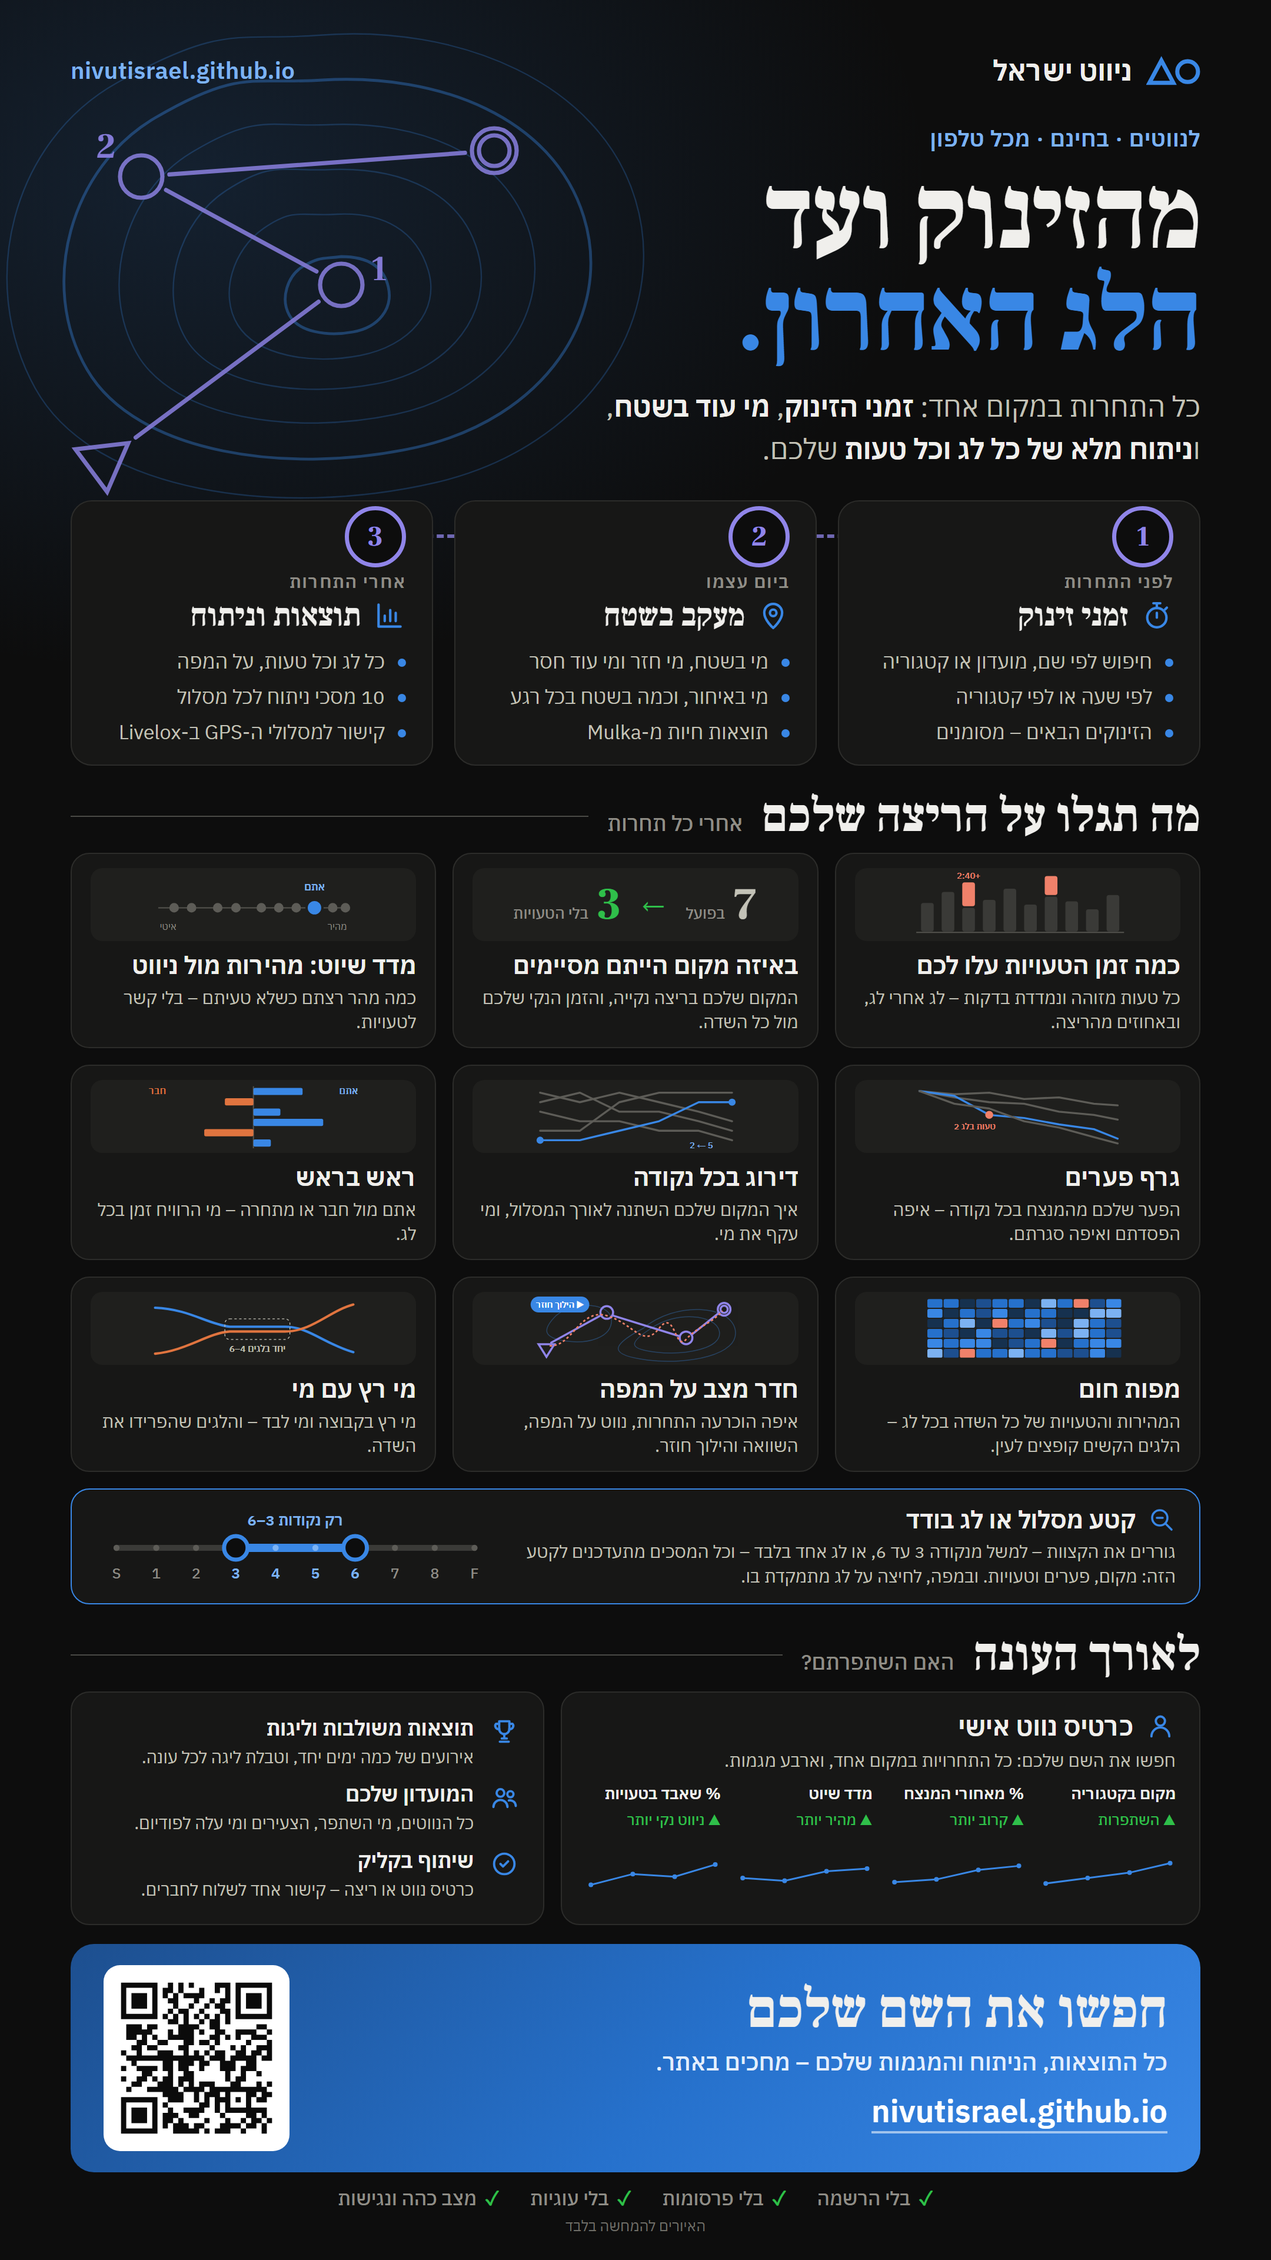
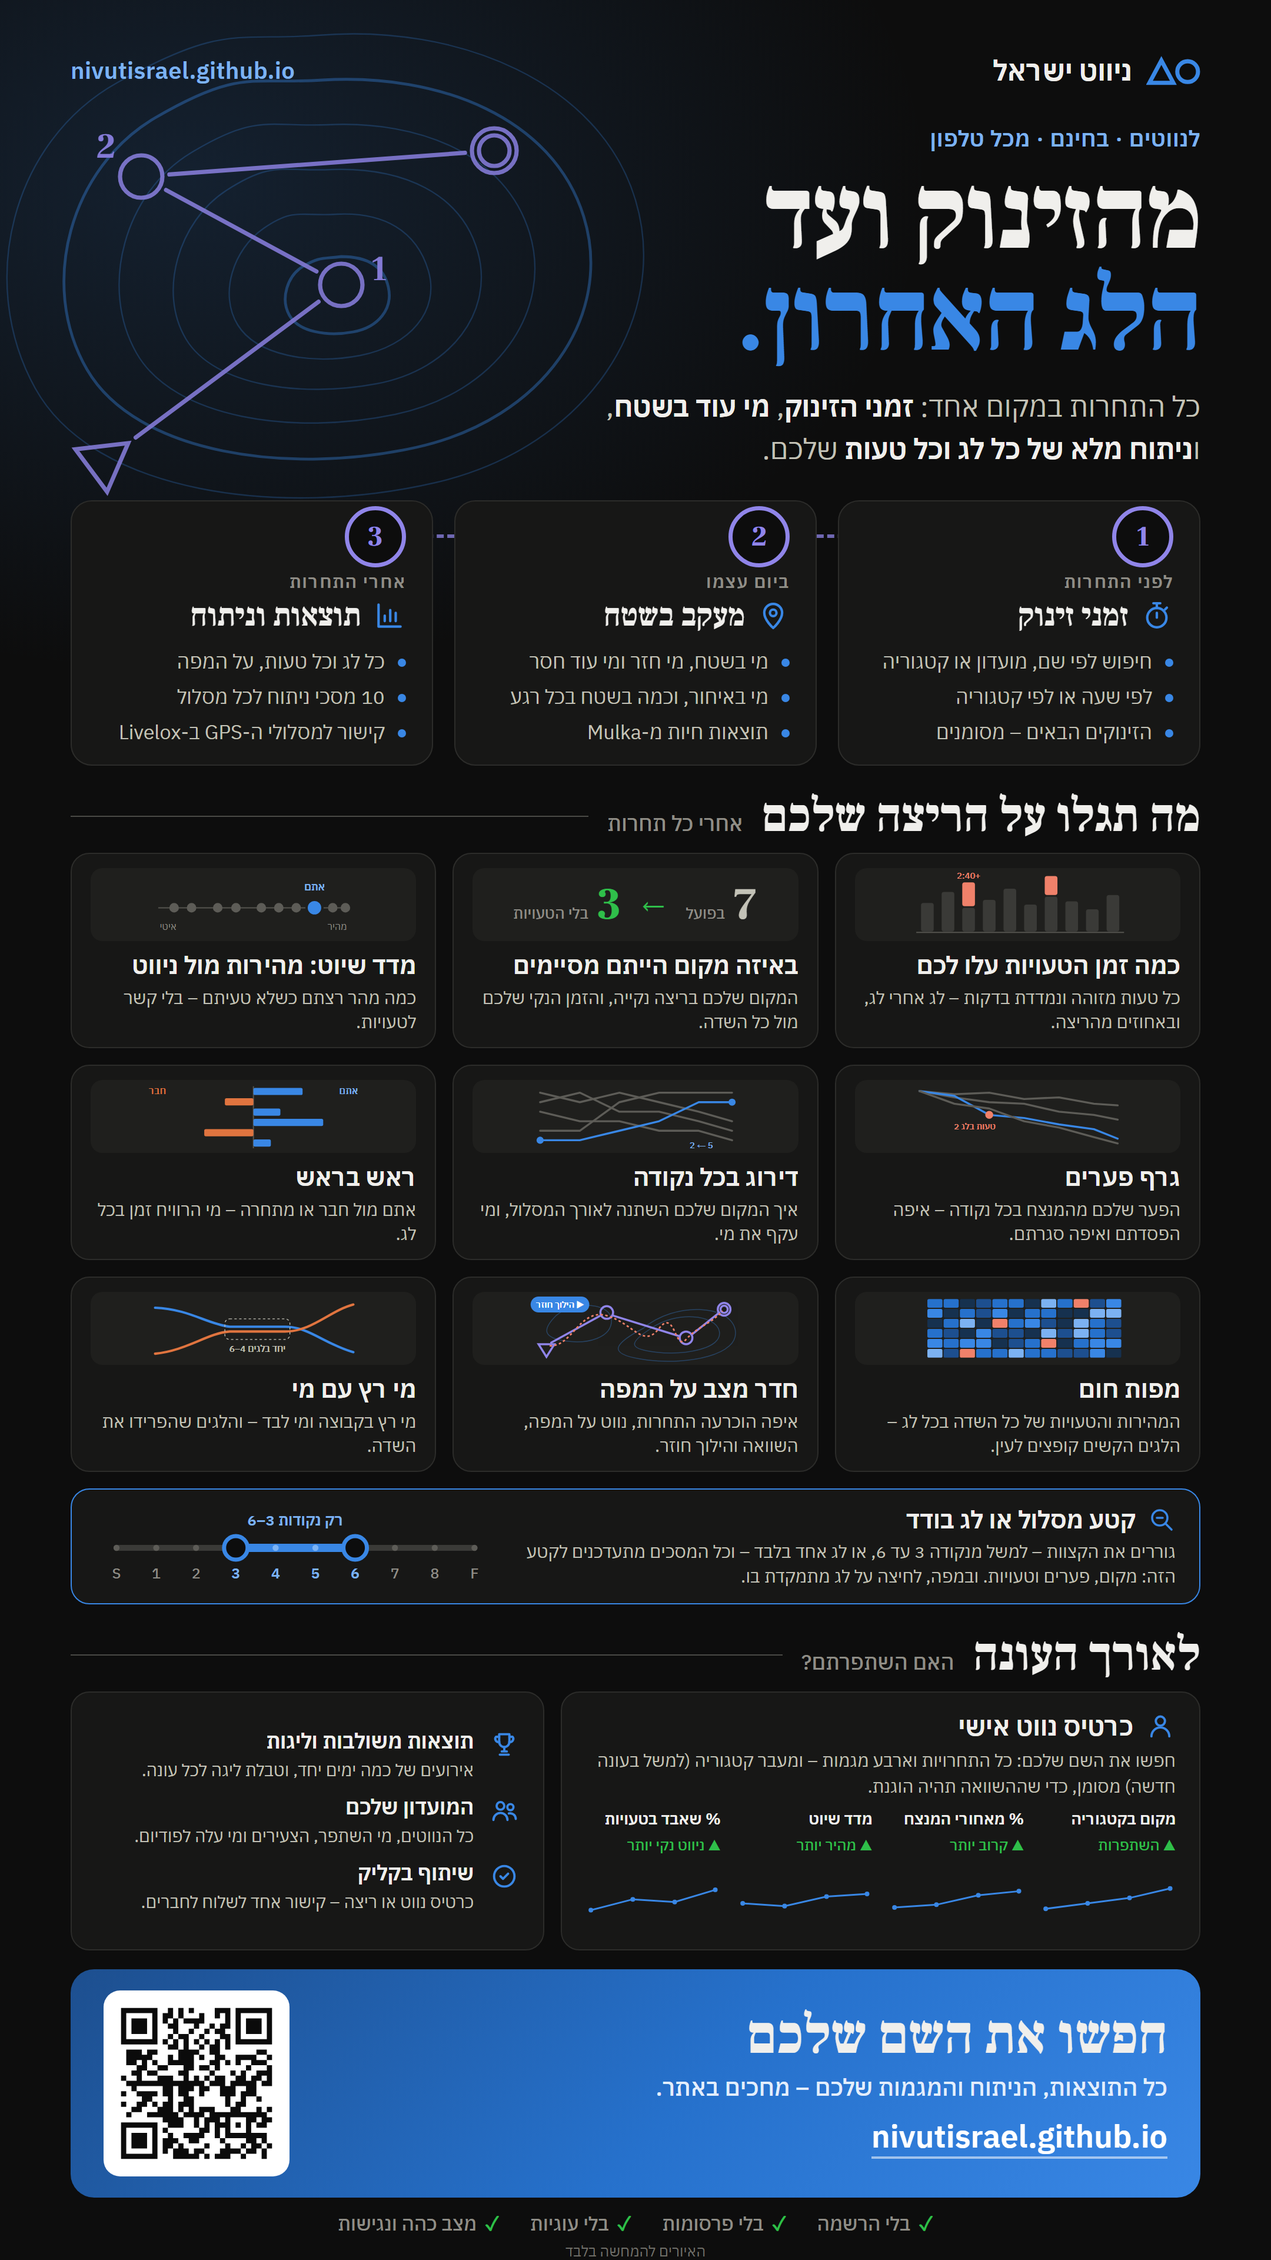
Update reports

Changed region(s): [[0.062, 0.75, 0.9616, 1.0]]

diff --git a/index.html b/index.html
@@ -2,7 +2,7 @@
 <html lang="he" dir="rtl">
 <head>
 <meta charset="utf-8">
-<meta http-equiv="Content-Security-Policy" content="default-src 'none'; script-src 'sha256-aKAXZXn8ocqffJBn0s+8Ofb8sEJI4VWMXJA5j4iilwE=' 'unsafe-inline'; style-src 'unsafe-inline'; img-src 'self' data: blob:; font-src 'self'; connect-src 'self'; worker-src 'self'; base-uri 'none'; form-action 'none'; object-src 'none'">
+<meta http-equiv="Content-Security-Policy" content="default-src 'none'; script-src 'sha256-Gk6z9wJMk5DsPJNbkvPI6KK553pazGg5fNxAxypVmYY=' 'unsafe-inline'; style-src 'unsafe-inline'; img-src 'self' data: blob:; font-src 'self'; connect-src 'self'; worker-src 'self'; base-uri 'none'; form-action 'none'; object-src 'none'">
 <meta name="referrer" content="no-referrer">
 <meta name="viewport" content="width=device-width, initial-scale=1, viewport-fit=cover">
 <meta name="theme-color" content="#ffffff" media="(prefers-color-scheme: light)">
@@ -192,7 +192,9 @@ td a:hover { text-decoration: underline; text-underline-offset: 3px; }
 .trend h4 small { font: 500 calc(12.5px * var(--ts, 1)) var(--sans); color: var(--muted); margin-right: 8px; }
 .trend svg { width: 100%; height: 130px; display: block; margin-top: 6px; }
 .trend .ax { fill: var(--ink-2); font: 600 calc(11px * var(--ts, 1)) var(--sans); }
-.verdict { font: 600 calc(13px * var(--ts, 1)) var(--sans); margin-top: 4px; }
+.verdict { font: 600 calc(13px * var(--ts, 1)) var(--sans); margin-top: 4px; } .verdict.flat { color: var(--muted); }
+.catnote { margin: 26px 0 0; padding: 10px 14px; border-radius: 10px; font-size: calc(14px * var(--ts, 1)); color: var(--ink-2); background: color-mix(in srgb, var(--accent) 9%, transparent); }
+.newk { color: var(--accent); font-weight: 600; font-size: calc(11.5px * var(--ts, 1)); }
 .up { color: var(--green); } .down { color: var(--accent); }
 
 /* footer: the margin of a map */
@@ -577,24 +579,34 @@ function search() {
   if (hits.length === 1 && pick !== hits[0].id) show(hits[0].id);
 }
 // a season line: up = better (where a low value is good the axis is flipped)
-function spark(vals, color, fmt, better, labels = []) {
+// cats: each point's category. A place or a gap to the winner in another category is not the same measure: the line
+// between two categories is dashed, and better or not is judged only since the latest change (from its second competition)
+function spark(vals, color, fmt, better, labels = [], cats = []) {
   const pts = vals.map((v, i) => [i, v]).filter(p => p[1] != null);
   if (pts.length < 2) return `<p class="hint">צריך לפחות 2 תחרויות כדי לראות מגמה</p>`;
   const W = 300, H = 132, m = 20, lo = Math.min(...pts.map(p => p[1])), hi = Math.max(...pts.map(p => p[1])), span = (hi - lo) || 1;
   const X = i => m + i / Math.max(1, vals.length - 1) * (W - 2 * m), f = v => (v - lo) / span * (H - 2 * m),
         Y = better === "low" ? v => m + f(v) : v => H - m - f(v);
-  const d = pts.map((p, k) => (k ? "L" : "M") + X(p[0]).toFixed(1) + "," + Y(p[1]).toFixed(1)).join("");
-  const first = pts[0][1], lastV = pts[pts.length - 1][1], good = better === "low" ? lastV < first : lastV > first;
+  const xy = p => X(p[0]).toFixed(1) + "," + Y(p[1]).toFixed(1), moved = (a, b) => !sameCat(cats[a[0]], cats[b[0]]);
+  const d = pts.map((p, k) => (k && !moved(pts[k - 1], p) ? "L" : "M") + xy(p)).join("");
+  const dash = pts.slice(1).map((p, k) => moved(pts[k], p) ? `M${xy(pts[k])}L${xy(p)}` : "").join("");
+  let s = pts.length - 1;
+  while (s > 0 && !moved(pts[s - 1], pts[s])) s--;                     // the latest run of one category
+  const last = pts[pts.length - 1], since = pts.slice(s), changed = s > 0;
+  const first = since[0][1], lastV = last[1], good = better === "low" ? lastV < first : lastV > first;
   const dated = [];                  // dates under the points, at least 26 apart; the last one always (it takes its neighbour's place)
   pts.forEach((p, k) => { if (!labels[p[0]]) return; const x = X(p[0]);
     if (dated.length && x - dated[dated.length - 1][1] < 26) { if (k !== pts.length - 1) return; dated.pop(); }
     dated.push([p[0], x]); });
   const DATED = new Set(dated.map(d => d[0]));
   return `<svg viewBox="0 0 ${W} ${H}" style="direction:ltr"><path d="${d}" fill="none" stroke="${color}" stroke-width="2.5" stroke-linejoin="round" stroke-linecap="round"/>
+    ${dash ? `<path class="moved" d="${dash}" fill="none" stroke="${color}" stroke-width="2" stroke-dasharray="4 4" opacity=".55"/>` : ""}
     ${pts.map(p => `<circle cx="${X(p[0])}" cy="${Y(p[1])}" r="4.5" fill="var(--paper)" stroke="${color}" stroke-width="2.5"/><text class="ax" x="${X(p[0])}" y="${Y(p[1]) - 10}" text-anchor="middle">${fmt(p[1])}</text>`
       + (DATED.has(p[0]) ? `<text class="ax dt" x="${X(p[0])}" y="${H - 3}" text-anchor="middle">${esc(labels[p[0]])}</text>` : "")).join("")}</svg>
-    <div class="verdict ${good ? "up" : "down"}">${good ? "▲ השתפר" : "▼ לא השתפר"} מהתחרות הראשונה לאחרונה</div>`;
+    ${changed && since.length < 2 ? `<div class="verdict flat">הקטגוריה השתנתה ל-<bdi>${esc(cats[last[0]])}</bdi> – המגמה בה תתחיל מהתחרות הבאה</div>`
+      : `<div class="verdict ${good ? "up" : "down"}">${good ? "▲ השתפר" : "▼ לא השתפר"} ${changed ? `מאז המעבר ל-<bdi>${esc(cats[last[0]])}</bdi>` : "מהתחרות הראשונה לאחרונה"}</div>`}`;
 }
+const sameCat = (a, b) => String(a ?? "").replace(/\s+/g, "").toUpperCase() === String(b ?? "").replace(/\s+/g, "").toUpperCase();
 let SHARE = [];
 document.addEventListener("click", e => { const b = e.target.closest?.("#me [data-share]"); if (b && SHARE[+b.dataset.share]) shareCard(SHARE[+b.dataset.share]); });
 function show(id) {
@@ -606,6 +618,11 @@ function show(id) {
   const fin = x => num(x.p) != null && num(x.cp) != null, gap = x => fin(x) && num(x.w) ? (x.t - x.w) / x.w * 100 : null;
   const club = [...res].reverse().map(x => x.cl).find(Boolean) || "", done = res.filter(fin);
   const dates = res.map(x => { const m = /^\d{4}-(\d{2})-(\d{2})/.exec(byS[x.s].date || ""); return m ? `${+m[2]}.${+m[1]}` : ""; });   // under the trend points
+  const cats = res.map(x => x.k), before = i => cats.slice(0, i).filter(Boolean).pop();
+  const newCat = i => !!(cats[i] && before(i) && !sameCat(cats[i], before(i)));           // another category than the one before
+  const steps = cats.reduce((a, k) => k && (!a.length || !sameCat(k, a[a.length - 1])) ? a.concat(k) : a, []);   // H14 → H16
+  const catNote = steps.length > 1 ? `<p class="catnote">↻ הקטגוריה השתנתה: <bdi dir="ltr">${steps.map(esc).join(" → ")}</bdi>. מקום ופער מהמנצח נמדדים כל פעם מול הקטגוריה של אותה תחרות,
+    ולכן תחרויות בקטגוריות שונות לא ממש ניתנות להשוואה: בגרפים הקו בין קטגוריות מקווקו, והמגמה נמדדת מאז המעבר.</p>` : "";
   SHARE = res.map(x => { const c = byS[x.s], [name, day] = splitTitle(c.title);
     return { name: r.n, club: x.cl || club, comp: day ? `${name} · ${day}` : name, date: fdate(c.date), cat: x.k, cp: fin(x) ? num(x.cp) : null, f: x.f,
              t: fin(x) ? num(x.t) : null, behind: fin(x) && num(x.w) ? x.t - x.w : null, m: num(x.m), st: x.st }; });
@@ -618,14 +635,14 @@ function show(id) {
       <th data-card="main" data-short="">זמן</th><th data-short="שיוט">מדד שיוט</th><th data-short="אבוד">% אבוד בטעויות</th><th data-tt="no" data-card="full"></th></tr></thead><tbody>
     ${res.map((x, i) => { const c = byS[x.s], h = `#v=runner&c=${encodeURIComponent(x.c)}&r=${encodeURIComponent(x.r)}`;
       const p = num(x.p), cp = num(x.cp), ci = num(x.ci), [name, day] = splitTitle(c.title);
-      return `<tr><td data-v="${esc(c.date)}">${fdate(c.date)}</td><td class="cn">${esc(name)}${day ? ` · ${esc(day)}` : ""}</td><td>${esc(x.c)}</td><td>${esc(x.k)}</td>
+      return `<tr><td data-v="${esc(c.date)}">${fdate(c.date)}</td><td class="cn">${esc(name)}${day ? ` · ${esc(day)}` : ""}</td><td>${esc(x.c)}</td><td>${esc(x.k)}${newCat(i) ? ` <small class="newk">חדשה</small>` : ""}</td>
         <td>${cp ?? "–"}</td><td>${p ?? (x.st === "MP" ? "פסול (MP)" : "לא סיים")}</td><td>${p != null ? ft(num(x.t)) : "–"}</td><td>${ci ?? "–"}</td><td>${pct(x) != null ? pct(x).toFixed(1) + "%" : "–"}</td>
         <td><a href="${c.slug}/${esc(h)}">כרטיס נווט ←</a>${c.map ? ` · <a href="${c.slug}/${esc(h.replace("v=runner", "v=map&mode=runner"))}">על המפה</a>` : ""} · <button type="button" class="share" data-share="${i}">📤 שיתוף</button></td></tr>`; }).join("")}
     </tbody></table></div>
-    <div class="trend"><section><h4>מקום בקטגוריה<small>למעלה = מקום טוב יותר</small></h4>${spark(res.map(x => fin(x) ? num(x.cp) : null), "var(--accent)", v => v, "low", dates)}</section>
-      <section><h4>% מאחורי המנצח<small>למעלה = קרוב יותר למנצח</small></h4>${spark(res.map(gap), "var(--accent)", v => v.toFixed(0) + "%", "low", dates)}</section>
-      <section><h4>מדד שיוט<small>למעלה = מהיר יותר</small></h4>${spark(res.map(x => num(x.p) != null ? num(x.ci) : null), "var(--accent)", v => v, "low", dates)}</section>
-      <section><h4>% מהזמן שאבד בטעויות<small>למעלה = ניווט נקי יותר</small></h4>${spark(res.map(x => num(x.p) != null ? pct(x) : null), "var(--accent)", v => v.toFixed(0) + "%", "low", dates)}</section></div>`;
+    ${catNote}<div class="trend"><section><h4>מקום בקטגוריה<small>למעלה = מקום טוב יותר</small></h4>${spark(res.map(x => fin(x) ? num(x.cp) : null), "var(--accent)", v => v, "low", dates, cats)}</section>
+      <section><h4>% מאחורי המנצח<small>למעלה = קרוב יותר למנצח</small></h4>${spark(res.map(gap), "var(--accent)", v => v.toFixed(0) + "%", "low", dates, cats)}</section>
+      <section><h4>מדד שיוט<small>למעלה = מהיר יותר</small></h4>${spark(res.map(x => num(x.p) != null ? num(x.ci) : null), "var(--accent)", v => v, "low", dates, cats)}</section>
+      <section><h4>% מהזמן שאבד בטעויות<small>למעלה = ניווט נקי יותר</small></h4>${spark(res.map(x => num(x.p) != null ? pct(x) : null), "var(--accent)", v => v.toFixed(0) + "%", "low", dates, cats)}</section></div>`;
   tableTools($("me"), "me");
   search();
 }

diff --git a/clubs/index.html b/clubs/index.html
@@ -2,7 +2,7 @@
 <html lang="he" dir="rtl">
 <head>
 <meta charset="utf-8">
-<meta http-equiv="Content-Security-Policy" content="default-src 'none'; script-src 'sha256-I5kOUBjH9FgnS6WnPeUQ57bfoG8b++P3TL3JPtRkHys=' 'unsafe-inline'; style-src 'unsafe-inline'; img-src 'self' data: blob:; font-src 'self'; connect-src 'self'; worker-src 'self'; base-uri 'none'; form-action 'none'; object-src 'none'">
+<meta http-equiv="Content-Security-Policy" content="default-src 'none'; script-src 'sha256-tzUx4HF35cdK4MNl9F/+wcKwLk7dwXSj9/OwyZRRR3E=' 'unsafe-inline'; style-src 'unsafe-inline'; img-src 'self' data: blob:; font-src 'self'; connect-src 'self'; worker-src 'self'; base-uri 'none'; form-action 'none'; object-src 'none'">
 <meta name="referrer" content="no-referrer">
 <meta name="viewport" content="width=device-width, initial-scale=1, viewport-fit=cover">
 <title>מועדונים · ניווט ישראל</title>
@@ -220,7 +220,7 @@ td.ttn { font-size: calc(12px * var(--ts, 1)); }
     <div class="tiles" id="tiles"></div>
     <section id="better"></section>
     <div id="list"></div>
-    <p class="note">התוצאות מהדוחות של כל תחרות; המועדון כפי שהוא רשום באותה תחרות. "השתפרו": פער קטן יותר מהמנצח בקטגוריה, לעומת התחרות הקודמת של אותו נווט.</p>
+    <p class="note">התוצאות מהדוחות של כל תחרות; המועדון כפי שהוא רשום באותה תחרות. "השתפרו": פער קטן יותר מהמנצח בקטגוריה, לעומת התחרות הקודמת של אותו נווט באותה קטגוריה – מי שעבר קטגוריה (למשל בעונה חדשה) נמדד מהתחרות השנייה בקטגוריה החדשה.</p>
   </main>
 </div>
 <script>
@@ -640,8 +640,12 @@ function render() {
   // who improved: the gap to the winner, this competition against the one before (each runner's last two)
   const byId = {};
   all.forEach(x => (byId[x.id] ||= []).push(x));
+  // (in the same category only: the gap to another category's winner is not the same measure - after a change, from the
+  // second competition in the new one)
+  const sameCat = (a, b) => String(a ?? "").replace(/\s+/g, "").toUpperCase() === String(b ?? "").replace(/\s+/g, "").toUpperCase();
   const better = Object.values(byId).map(rs => { rs = rs.filter(x => behind(x) != null).sort((a, b) => (COMPS[a.s].date || "").localeCompare(COMPS[b.s].date || ""));
-    if (rs.length < 2) return null; const a = rs[rs.length - 2], b = rs[rs.length - 1], d = behind(a) - behind(b);
+    const b = rs[rs.length - 1], same = b ? rs.filter(x => sameCat(x.k, b.k)) : [];
+    if (same.length < 2) return null; const a = same[same.length - 2], d = behind(a) - behind(b);
     return d > 0.5 ? { a, b, d } : null; }).filter(Boolean).sort((p, q) => q.d - p.d);
   $("better").innerHTML = better.length ? `<h2>השתפרו <small>${better.length}</small></h2><ul class="better">${better.slice(0, 12).map(({ a, b, d }) =>
     `<li><b>${esc(b.n)}</b> ${esc(b.k)} · <span dir="ltr">${behind(a).toFixed(0)}% → ${behind(b).toFixed(0)}%</span> מאחורי המנצח <span class="up">▲ ${d.toFixed(0)} נק׳ אחוז</span></li>`).join("")}</ul>` : "";

diff --git a/series/index.html b/series/index.html
@@ -2,7 +2,7 @@
 <html lang="he" dir="rtl">
 <head>
 <meta charset="utf-8">
-<meta http-equiv="Content-Security-Policy" content="default-src 'none'; script-src 'sha256-fwU03RUJyysccX5P4E+kUY7ZtLAOoGt+/U5OU8ttq4E=' 'unsafe-inline'; style-src 'unsafe-inline'; img-src 'self' data: blob:; font-src 'self'; connect-src 'self'; worker-src 'self'; base-uri 'none'; form-action 'none'; object-src 'none'">
+<meta http-equiv="Content-Security-Policy" content="default-src 'none'; script-src 'sha256-+DV4x/V4m3vkdZf21VEmdNcwQ3ZC0fKyXvghT65lV9w=' 'unsafe-inline'; style-src 'unsafe-inline'; img-src 'self' data: blob:; font-src 'self'; connect-src 'self'; worker-src 'self'; base-uri 'none'; form-action 'none'; object-src 'none'">
 <meta name="referrer" content="no-referrer">
 <meta name="viewport" content="width=device-width, initial-scale=1, viewport-fit=cover">
 <title>תוצאות משולבות וליגות · ניווט ישראל</title>
@@ -654,7 +654,7 @@ function render() {
   $("standing").innerHTML = rows.length ? `<div class="scroll"><table class="cards"><thead>${head}</thead><tbody>${body}</tbody></table></div>`
     : `<p class="empty">אין תוצאות בקטגוריה הזו.</p>`;
   tableTools($("standing"), `series-${s.key}-${k}`);
-  $("note").textContent = `לפי הדוחות של ${R.map(r => r.label).join(", ")}. נווט מזוהה לפי שמו, בכל קטגוריה בנפרד.`;
+  $("note").textContent = `לפי הדוחות של ${R.map(r => r.label).join(", ")}. נווט מזוהה לפי שמו, בכל קטגוריה בנפרד: מי שעבר קטגוריה באמצע העונה מופיע בכל אחת מהן, עם מה שצבר בה.`;
 }
 readHash(); render();
 addEventListener("hashchange", () => { readHash(); render(); });
